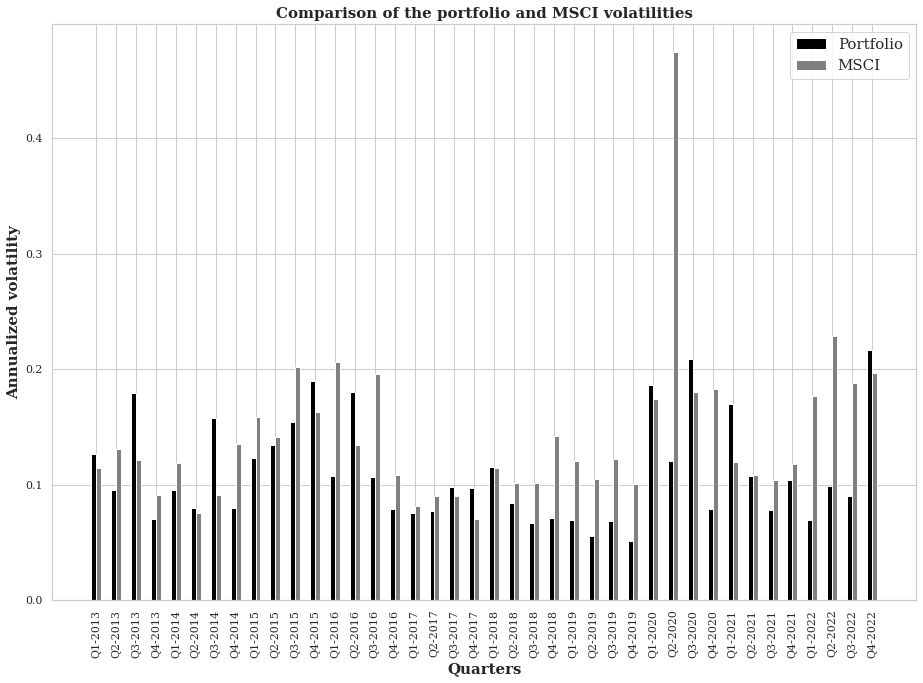
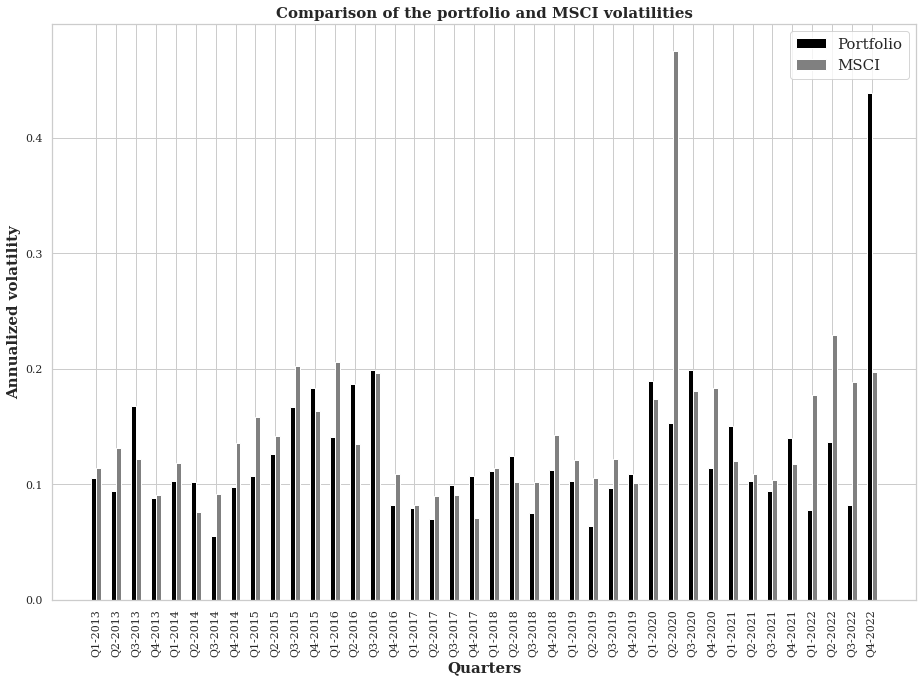
update screen and readme

diff --git a/README.md b/README.md
@@ -55,6 +55,8 @@ Notebooks used for the construction of the portfolio :
 
 **Environmental, social, and governance (ESG) factors** are non-financial factors that can affect the performance of a company. It tells investors the level of risk exposure a company has in these three areas. Therefore, a high ESG score means that the company has a high risk exposure in these three areas.
 
+![risk esg](_attachments/risk%20esg.png)  
+
 **Environmental factors** are related to the impact of a company on the environment. For example, the use of renewable energy, the use of recycled materials, carbon footprint, etc.
 
 **Social factors** are related to the impact of a company on the society. For example, the use of child labor, the use of forced labor, the use of human rights, etc. Also linked with the labor management, health and safety, etc.
@@ -83,19 +85,17 @@ The portfolio will be rebalanced every quarter.
 
 With the mean variance portfolio with transaction cost :
 
-1. The porfolio has **60%** of the time positive returns compared to **70%** of the time for the MSCI EUROPE (it's a difference of 5 quarters).
-2. The maximum drawdown of our portfolio and the MSCI Europe. We found a drawdown of **-25.72%** (annualized) during Q3-2015 and **-23.79%** for the MSCI (annualized) during Q1-2021.
-3. The higest return is **88.43%** (annualized) during Q1-2015 and **110.42%** for the MSCI (annualized) during Q1-2015.
-4. The average return is **6.01%** (annualized) for the portfolio and **14.86%** for the MSCI (annualized).
-5. The average volatility is **10.49%** (annualized) for the portfolio and **15.16%** for the MSCI (annualized).
-6. The annualized return (not the average) is **5.13%** for the portfolio and **11.72%** for the MSCI.
-7. The annualized volatility (not the average) is **11.88%** for the portfolio and **15.63%** for the MSCI.
-8. The sharpe ratio is **0.264** for the portfolio and **0.621** for the MSCI.
-9. 1000€ in 2013 is **1668€** in 2022 for our portfolio, **2617€** for the MSCI and **1224€** for the livret A.
+1. The porfolio and the MSCI EUROPE have **70%** of the time positive returns.
+2. About the maximum drawdown of our portfolio and the MSCI Europe. We found a drawdown of **-27.91%** (annualized) during Q3-2020 and **-23.79%** for the MSCI (annualized) during Q1-2021.
+3. The higest return is **102.57%** (annualized) and **110.42%** for the MSCI (annualized) in Q1-2015.
+4. The **annualized return** over 10-years periods is **8.27%** for the portfolio and **11.72%** for the MSCI.
+5. The **annualized volatility** over 10-years periods is **14.04%** for the portfolio and **15.63%** for the MSCI.
+6. The sharpe ratio is **0.447** for the portfolio over 10-years periods and **0.621** for the MSCI.
+7. 1000€ in 2013 is **2253.65** in 2022 for our portfolio, **2617€** for the MSCI and **1224€** for the livret A.
 
 ### About the comparison of returns
 
-!['ok'](_attachments/comp%20ret.png)  
+!['ok'](_attachments/comp%20returns.png)  
 !['ok'](_attachments/diff%20returns.png)  
 
 ### About the comparison of volatility
